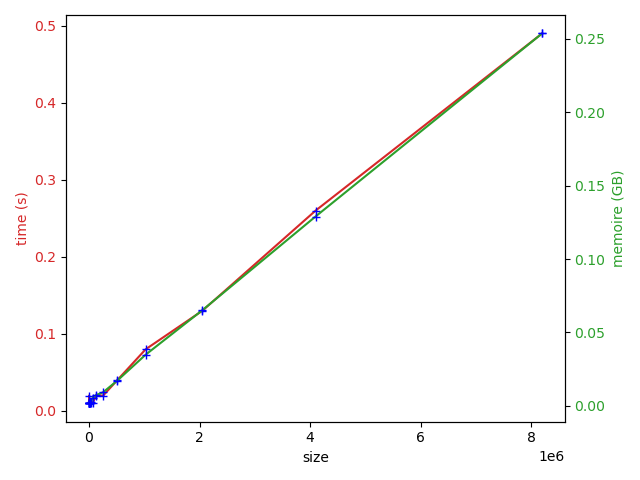
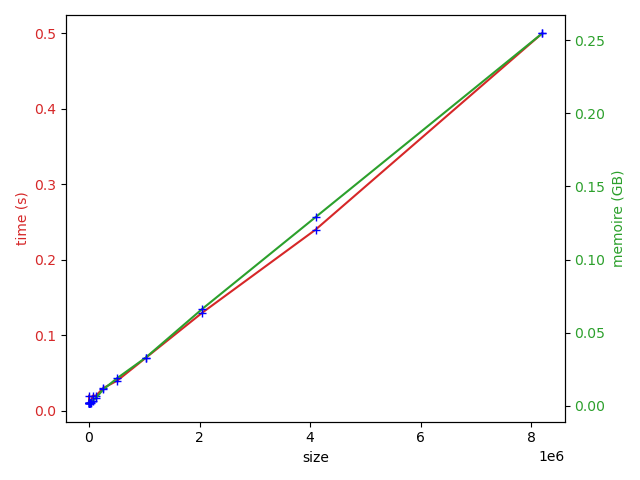
minor changes for perfs tests

diff --git a/interprete.c b/interprete.c
@@ -96,7 +96,7 @@ int interprete(sequence_t* seq, bool debug)
 			
 			case '{':
 				prendreTete(seq, &commande);
-				int sizeca = 2;
+				int sizeca = 1;
 				ca = malloc(sizeof(char) * sizeca);
 				int i;
 				int flag = true;
@@ -113,7 +113,7 @@ int interprete(sequence_t* seq, bool debug)
 							count--;
 						if (i > sizeca)
 						{
-							sizeca *= 2;
+							sizeca *= 256;
 							ca = realloc(ca, sizeof(char) * sizeca);
 						}
 						ca[i] = commande;

diff --git a/listes.h b/listes.h
@@ -40,7 +40,7 @@ void afficher (sequence_t* seq);
 
 bool prendreTete(sequence_t* seq, char *c);
 
-#define N_MAX_PILE 10000000
+#define N_MAX_PILE 100000000
 
 typedef struct {
 	int x;
